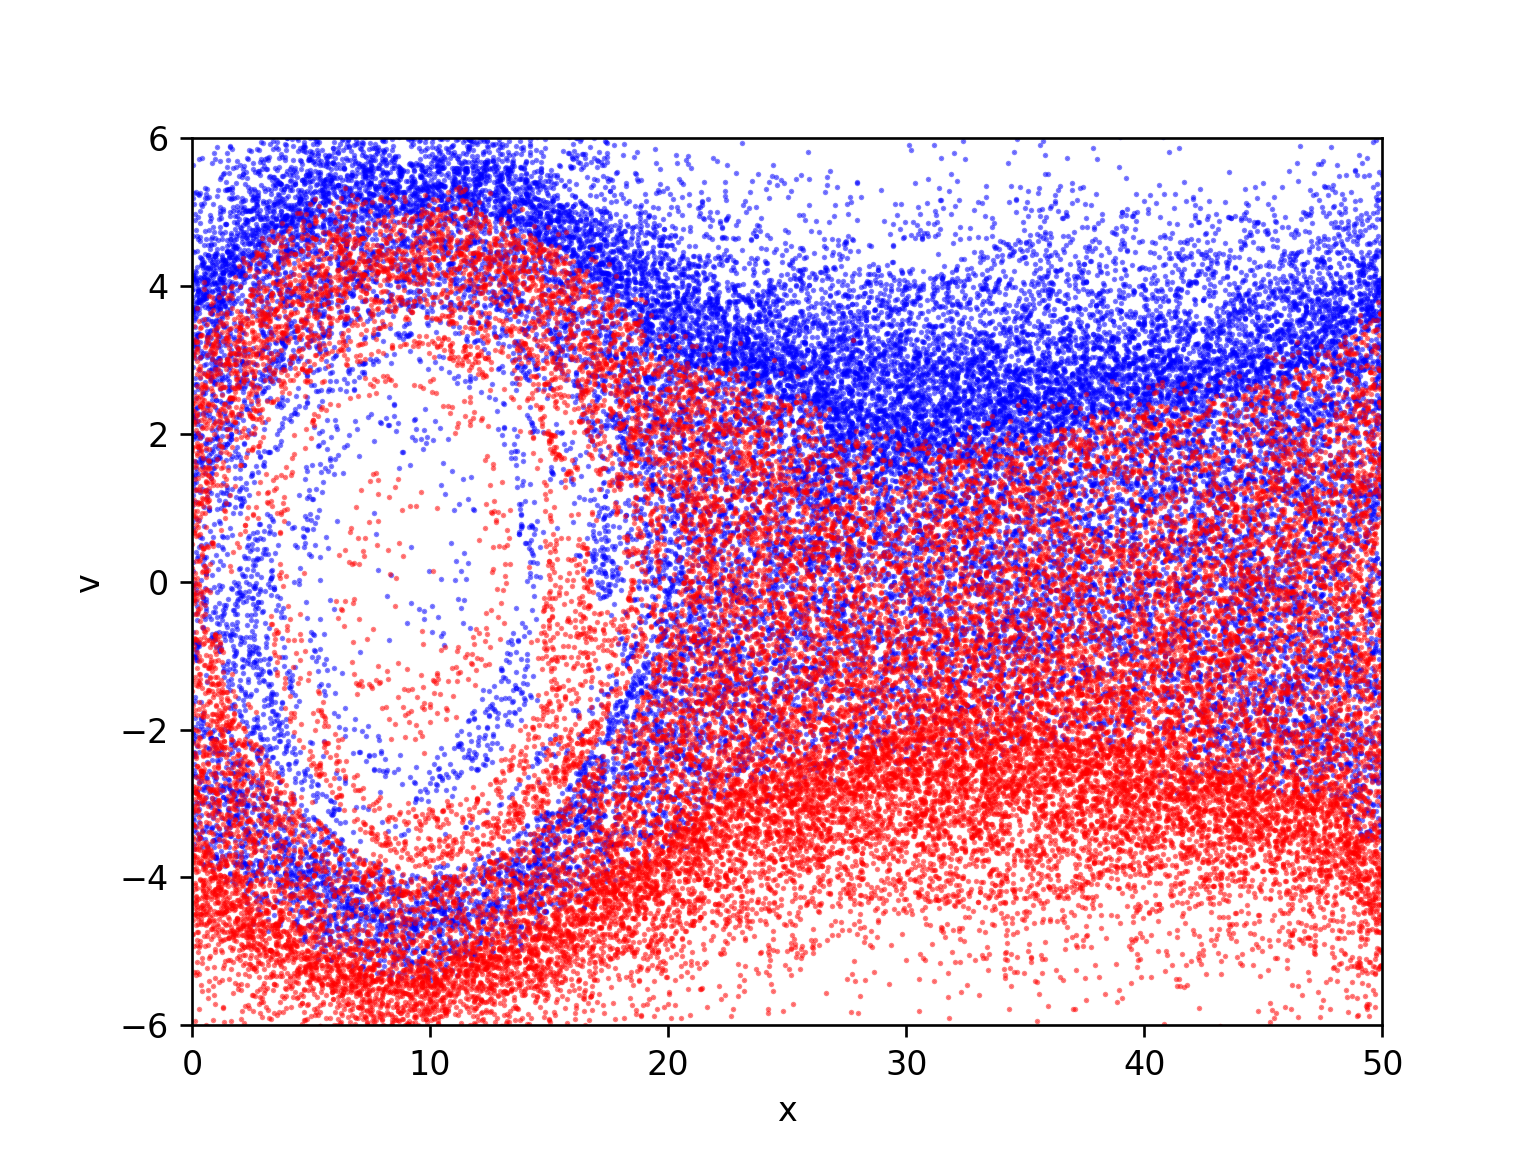
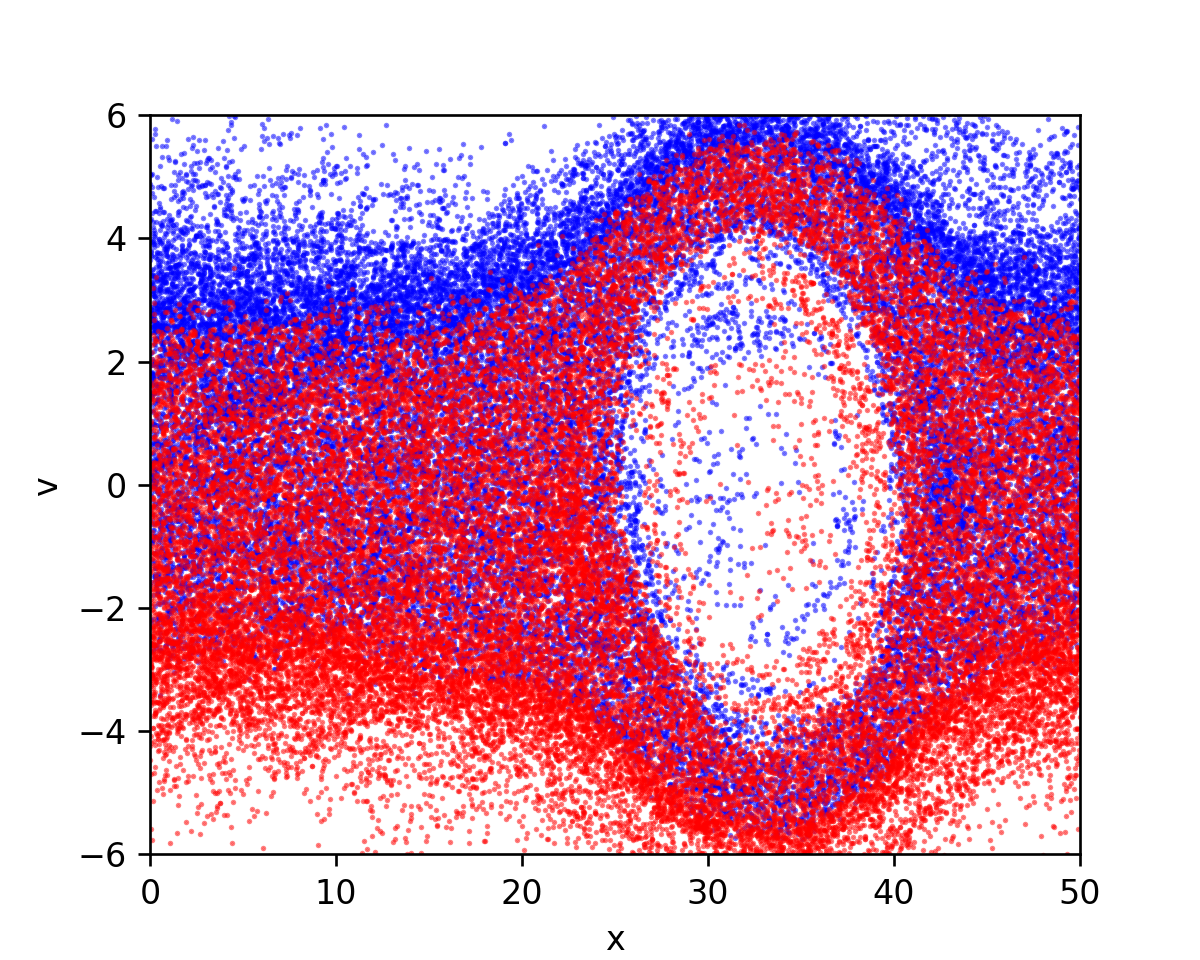
,

diff --git a/1d PIC/premade_pic.py b/1d PIC/premade_pic.py
@@ -50,16 +50,16 @@ def main():
     """ Plasma PIC simulation """
 
     # Simulation parameters
-    N = 60000  # Number of particles
-    Nx = 400  # Number of mesh cells
+    N = 70000  # Number of particles
+    Nx = 1000  # Number of mesh cells
     t = 0  # current time of the simulation
-    tEnd = 100  # time at which simulation ends
+    tEnd = 200  # time at which simulation ends
     dt = 1  # timestep
     boxsize = 50  # periodic domain [0,boxsize]
     n0 = 1  # electron number density
     vb = 3  # beam velocity
     vth = 1  # beam width
-    A = 0.1  # perturbation
+    A = 0.01  # perturbation
     plotRealTime = True  # switch on for plotting as the simulation goes along
 
     # Generate Initial Conditions
